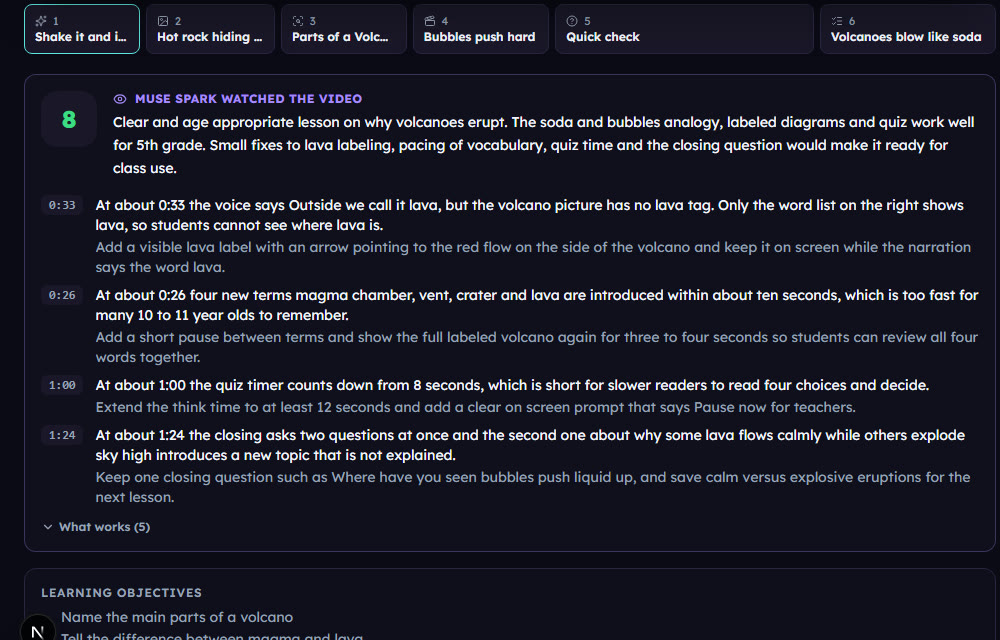
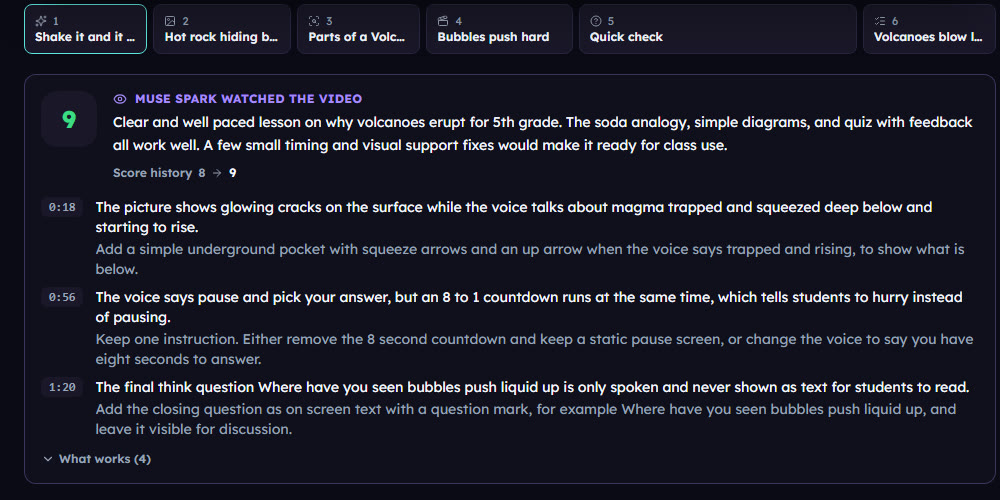
README: Muse Spark fixing its own notes, with the score history

diff --git a/README.md b/README.md
@@ -71,7 +71,8 @@ and hands the teacher a live editor before anything reaches the class.
 <p align="center">
   <img src="docs/media/review.jpg" alt="Muse Spark's review of the finished video, with notes pinned to the minute" width="720"><br>
   <sub><b>Muse Spark watches the finished MP4</b>, picture and sound, like a teacher before class: a score, what works,
-  and notes pinned to the minute. Click a note and the player jumps there.</sub>
+  and notes pinned to the minute. Then it can <b>fix its own notes</b>: it rewrites the scenes they point to, renders again
+  and watches the new version. Here the English example went from 8 to 9.</sub>
 </p>
 
 The volcano lesson above was generated from one line, *"Las partes de un volcán y por qué entra en erupción, 5to de primaria, Bolivia"*,
@@ -90,6 +91,7 @@ Each step is a Meta model doing what it is good at, and most steps are checked b
 | **Animate** | Muse Spark writing Manim | Write the scene, dry-run it through a geometry auditor (text off-frame, overlaps, floating connectors), send errors back, render, look at the rendered frames, and repair once more if something is visibly wrong. |
 | **Teacher's voice** | Muse Voice Transcribe | Re-record any scene in your own voice from the browser. The transcript, biased with the lesson's key terms, becomes the captions. |
 | **Watch the result** | Muse Spark 1.3, video understanding | After export the MP4 goes to the Files API and Muse Spark watches it with sound: a score and notes pinned to the minute. Its first reviews said 5 seconds of quiz time was too short for 10-year-olds, so Nemi now gives 8. |
+| **Fix its own notes** | Muse Spark 1.3, then Muse Image and SAM 3.1 again | One click closes the loop: each note's minute is mapped to its scene, Muse Spark rewrites only what the notes ask for (narration, on-screen lines, or the picture when it contradicts the voice), changed scenes are re-voiced and redrawn, the MP4 is rendered again and Muse Spark watches it again. Every score is kept. In testing: 8 to 9 and 7 to 8. |
 
 Default narration uses neural TTS with Latin American voices (including Bolivian), since Meta Model API doesn't offer speech
 synthesis. Word timings drive the karaoke captions and the diagram highlights.
@@ -141,7 +143,7 @@ Judges: here is exactly what is new and what isn't.
   Imported unchanged in the first commit, with the source commit hash.
 - **New, built from October 26 to November 4, 2026: everything else.** The lesson agent and its review loop, every Meta Model API integration,
   the Muse Spark and SAM 3.1 diagram pipeline, the self-repairing Manim loop, teacher voice transcription, the video review by
-  Muse Spark, one art style per lesson, deep mode with Muse Wonder, the Remotion composition and all its scenes, Nemi for events,
+  Muse Spark and its self-fixing loop, one art style per lesson, deep mode with Muse Wonder, the Remotion composition and all its scenes, Nemi for events,
   the engine API, the web studio and the deployment on Modal and Vercel.
 
 ## Run it locally
